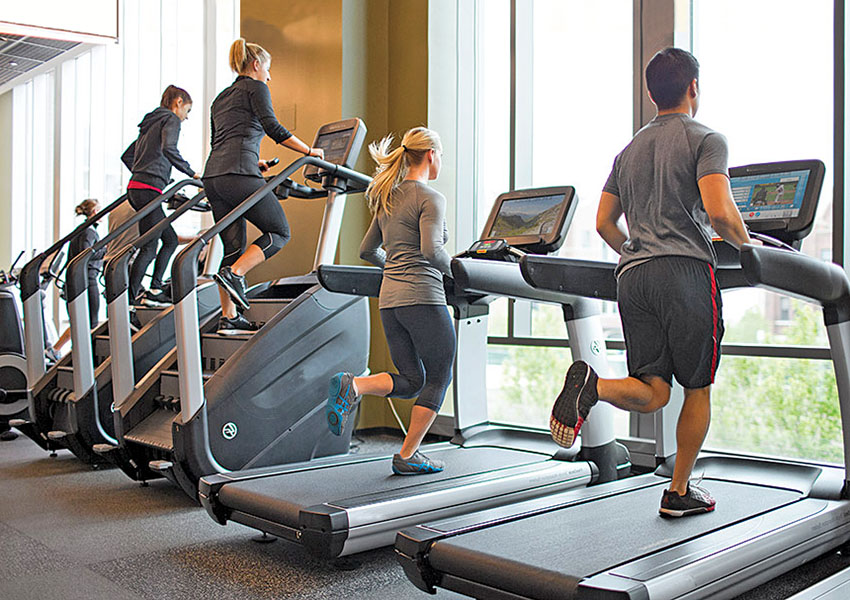
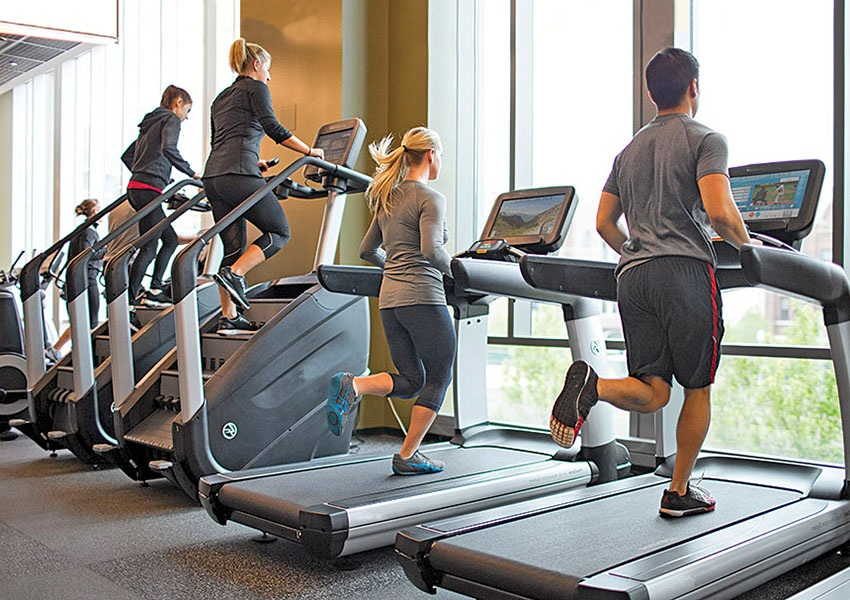
Changed image extensions

diff --git a/plan.html b/plan.html
@@ -12,7 +12,7 @@
            <link rel="stylesheet" href="node_modules/font-awesome/css/font-awesome.min.css">
            <link rel="stylesheet" href="node_modules/bootstrap-social/bootstrap-social.css">
            <title>Plan</title>
-           <link rel="icon" href="images/miLogo.jpg" type="image/jpg" sizes="20x20">
+           <link rel="icon" href="images/faviconLogo.jpg" type="image/jpg" sizes="20x20">
        </head>
        <style>
         .plan {
@@ -66,8 +66,8 @@
                  <div class="card border-secondary mb-3">
                     <div class="card-header"><b>Conceptual Floor Plan</b></div>
                     <div class="card-body align-self-center">
-                        <a target="_parent" href="images/plan/conceptual-floor-plan.jpg">
-                          <img class="plan" src="images/plan/conceptual-floor-plan.jpg" alt="Conceptual Floor Plan" style="width:225px; min-height: 175px">
+                        <a target="_parent" href="images/plan/conceptual-floor.jpg">
+                          <img class="plan" src="images/plan/conceptual-floor.jpg" alt="Conceptual Floor Plan" style="width:225px; min-height: 175px">
                       </a>
 
                   </div> 
@@ -78,8 +78,8 @@
              <div class="card border-secondary mb-3">
                 <div class="card-header"><b>1<sup>st</sup> to 6<sup>th</sup> Floor Plan</b></div>
                 <div class="card-body align-self-center">
-                    <a target="_parent" href="images/plan/floor-plan-measurements.jpg">
-                       <img class="plan" src="images/plan/floor-plan-measurements.jpg" alt="Floor Plan with Measurements" style="width:225px; min-height: 175px">
+                    <a target="_parent" href="images/plan/floor-measurements.jpg">
+                       <img class="plan" src="images/plan/floor-measurements.jpg" alt="Floor Plan with Measurements" style="width:225px; min-height: 175px">
                    </a>
 
                </div> 
@@ -90,8 +90,8 @@
          <div class="card border-secondary mb-3">
             <div class="card-header"><b>Terrace Conceptual Plan</b></div>
             <div class="card-body align-self-center">
-                <a target="_parent" href="images/plan/terrace-plan.jpg">
-                  <img class="plan" src="images/plan/terrace-plan.jpg" alt="Paris" style="width:225px; min-height: 175px">
+                <a target="_parent" href="images/plan/terrace.jpg">
+                  <img class="plan" src="images/plan/terrace.jpg" alt="Terrace Conceptual Plan" style="width:225px; min-height: 175px">
               </a>
 
           </div> 
@@ -116,7 +116,7 @@
         <div class="row">   
 
             <div class="col-5 col-sm-5 col-md-6 align-self-center text-center">
-                <img id="mahaLogo" src="images/logoWithName.jpg" style="width:140px; height:170px">
+                <img id="mahaLogo" src="images/mahaLogo.jpg" style="width:140px; height:170px">
             </div>
             
             <div class="col-7 col-sm-7 col-md-6 align-self-center">
@@ -134,8 +134,6 @@
                 </address>
             </div>
             <hr>
-
-
         </div>
     </div>
 </footer>

diff --git a/rera.html b/rera.html
@@ -12,7 +12,7 @@
     	<link rel="stylesheet" href="node_modules/font-awesome/css/font-awesome.min.css">
     	<link rel="stylesheet" href="node_modules/bootstrap-social/bootstrap-social.css">
     	<title>Sai Marina RERA</title>
-        <link rel="icon" href="images/miLogo.jpg" type="image/jpg" sizes="20x20">
+        <link rel="icon" href="images/faviconLogo.jpg" type="image/jpg" sizes="20x20">
     	
     </head>
 
@@ -46,12 +46,12 @@
                 <h3  class="col-12 col-sm-12 col-md-12 col-lg-12">Sai Marina RERA Number</h3><hr>
                 <div class="container">
                     <p>Sai Marina has been registered via <b>MahaRERA registration number: P51700017788</b> and is available on the website 
-                        <a href="https://maharera.mahaonline.gov.in"> https://maharera.mahaonline.gov.in </a> under registered projects.<br></p>
+                        <a target="_blank" href="https://maharera.mahaonline.gov.in"> https://maharera.mahaonline.gov.in/ </a> under registered projects.<br></p>
                         <p>
                         The MahaRERA Registration Number is a mark of integrity. It is an iconic act that aims to bring transparency and efficiency in the real estate sector, protect consumers, and fast track dispute resolution. It is an act that promotes good governance in the market, which helps customers get more information about projects and reduces the risk associated with the purchase. 
                      </p>
 
-                     <p><b>Address: </b> Block No. C-606/607, Sai Vasanshah Bungalow Area, Netaji Chowk, ULHASNAGAR 421004 </p>
+                     <p><b>Address: </b> Block No. C-606/607, Room No. 1212, 1213, 1214, Sai Vasanshah Bungalow Area, Netaji Chowk, ULHASNAGAR 421004 </p>
                  </div>
              </div>
          </div>
@@ -61,7 +61,7 @@
         <div class="row">   
 
             <div class="col-5 col-sm-5 col-md-6 align-self-center text-center">
-                <img id="mahaLogo" src="images/logoWithName.jpg" style="width:140px; height:170px">
+                <img id="mahaLogo" src="images/mahaLogo.jpg" style="width:140px; height:170px">
             </div>
             
             <div class="col-7 col-sm-7 col-md-6 align-self-center">

diff --git a/index.html b/index.html
@@ -13,17 +13,11 @@
     	<script src="http://ajax.googleapis.com/ajax/libs/angularjs/1.4.4/angular.min.js"></script>
     	<link rel="stylesheet" href="node_modules/bootstrap-social/bootstrap-social.css">
     	<title>Sai Marina</title>
-        <link rel="icon" href="images/miLogo.jpg" type="image/jpg" sizes="20x20">
+        <link rel="icon" href="images/faviconLogo.jpg" type="image/jpg" sizes="20x20">
 
         <style type="text/css">
           #para {
              padding-top: 20px;
-         }
-
-         #mahaLogo{
-               display: flex;
-                justify-content: center;
-                align-items: center;
          }
 
      </style>
@@ -114,12 +108,11 @@
 </div>
 <br>
 
-<footer class="footer">
+   <footer class="footer">
     <div class="container">
         <div class="row">   
-
             <div class="col-5 col-sm-5 col-md-6 align-self-center text-center">
-                <img id="mahaLogo" src="images/logoWithName.jpg" style="width:140px; height:170px">
+                <img id="mahaLogo" src="images/mahaLogo.jpg" style="width:140px; height:170px">
             </div>
             
             <div class="col-7 col-sm-7 col-md-6 align-self-center">

diff --git a/gallery.html b/gallery.html
@@ -12,7 +12,7 @@
            <link rel="stylesheet" href="node_modules/bootstrap-social/bootstrap-social.css">
 
            <title>Gallery</title>
-           <link rel="icon" href="images/miLogo.jpg" type="image/jpg" sizes="20x20">
+           <link rel="icon" href="images/faviconLogo.jpg" type="image/jpg" sizes="20x20">
            <style>
             .mySlides {display:none;}
 
@@ -110,7 +110,7 @@
 
               <div class="mySlides">
                   <div class="slideText"><h5>Gymnasium at Terrace</h5></div>
-                  <img src="images/actual-gym.jpg" style="width:100%">
+                  <img src="images/gym.jpg" style="width:100%">
               </div>
 
           </div>
@@ -123,7 +123,7 @@
         <div class="row">   
 
             <div class="col-5 col-sm-5 col-md-6 align-self-center text-center">
-                <img id="mahaLogo" src="images/logoWithName.jpg" style="width:140px; height:170px">
+                <img id="mahaLogo" src="images/mahaLogo.jpg" style="width:140px; height:170px">
             </div>
             
             <div class="col-7 col-sm-7 col-md-6 align-self-center">

diff --git a/locateus.html b/locateus.html
@@ -12,7 +12,7 @@
            <link rel="stylesheet" href="node_modules/font-awesome/css/font-awesome.min.css">
            <link rel="stylesheet" href="node_modules/bootstrap-social/bootstrap-social.css">
            <title>Location</title>
-           <link rel="icon" href="images/miLogo.jpg" type="image/jpg" sizes="20x20">
+           <link rel="icon" href="images/faviconLogo.jpg" type="image/jpg" sizes="20x20">
            <style>
                #map{
 
@@ -70,7 +70,7 @@
         <div class="row">   
 
             <div class="col-5 col-sm-5 col-md-6 align-self-center text-center">
-                <img id="mahaLogo" src="images/logoWithName.jpg" style="width:140px; height:170px">
+                <img id="mahaLogo" src="images/mahaLogo.jpg" style="width:140px; height:170px">
             </div>
             
             <div class="col-7 col-sm-7 col-md-6 align-self-center">

diff --git a/contactus.html b/contactus.html
@@ -12,7 +12,7 @@
         <link rel="stylesheet" href="node_modules/font-awesome/css/font-awesome.min.css">
         <link rel="stylesheet" href="node_modules/bootstrap-social/bootstrap-social.css">
         <title>Contact</title>
-        <link rel="icon" href="images/miLogo.jpg" type="image/jpg" sizes="20x20">
+        <link rel="icon" href="images/faviconLogo.jpg" type="image/jpg" sizes="20x20">
         
     </head>
     
@@ -139,7 +139,7 @@
         <div class="row">   
 
             <div class="col-5 col-sm-5 col-md-6 align-self-center text-center">
-                <img id="mahaLogo" src="images/logoWithName.jpg" style="width:140px; height:170px">
+                <img id="mahaLogo" src="images/mahaLogo.jpg" style="width:140px; height:170px">
             </div>
             
             <div class="col-7 col-sm-7 col-md-6 align-self-center">

diff --git a/amenities.html b/amenities.html
@@ -12,7 +12,7 @@
          <link rel="stylesheet" href="node_modules/font-awesome/css/font-awesome.min.css">
          <link rel="stylesheet" href="node_modules/bootstrap-social/bootstrap-social.css">
          <title>Amenities</title>
-         <link rel="icon" href="images/miLogo.jpg" type="image/jpg" sizes="20x20">
+         <link rel="icon" href="images/faviconLogo.jpg" type="image/jpg" sizes="20x20">
 
      </head>
 
@@ -111,7 +111,7 @@
         <div class="row">   
 
             <div class="col-5 col-sm-5 col-md-6 align-self-center text-center">
-                <img id="mahaLogo" src="images/logoWithName.jpg" style="width:140px; height:170px">
+                <img id="mahaLogo" src="images/mahaLogo.jpg" style="width:140px; height:170px">
             </div>
             
             <div class="col-7 col-sm-7 col-md-6 align-self-center">
